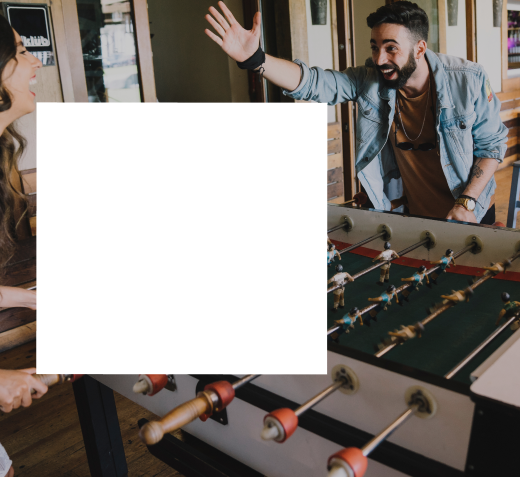
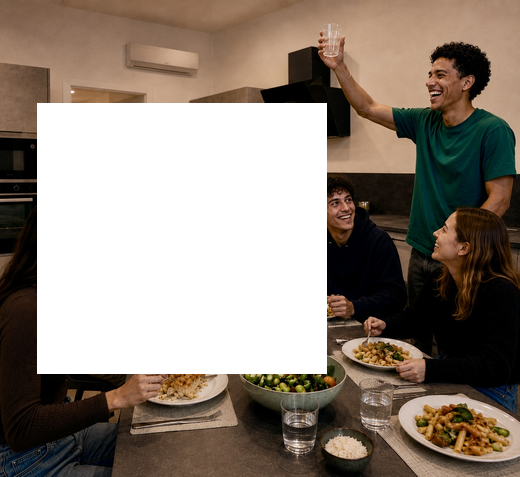
Several text and graphic changes

diff --git a/index.html b/index.html
@@ -1,6 +1,15 @@
 <!DOCTYPE html>
 <html lang="it">
 <head>
+    <!-- Google tag (gtag.js) -->
+    <script async src="https://www.googletagmanager.com/gtag/js?id=G-RDXZLBWNVS"></script>
+    <script>
+    window.dataLayer = window.dataLayer || [];
+    function gtag(){dataLayer.push(arguments);}
+    gtag('js', new Date());
+
+    gtag('config', 'G-RDXZLBWNVS');
+    </script>
     <meta charset="UTF-8">
     <meta name="viewport" content="width=device-width, initial-scale=1.0">
     <title>Villa Giusti 5 | Studentato e Co-Housing a Torino</title>
@@ -11,6 +20,7 @@
     <link href="https://fonts.googleapis.com/css2?family=Work+Sans:ital,wght@0,100..900;1,100..900&display=swap" rel="stylesheet">
     <link href="https://fonts.googleapis.com/css2?family=Cabin:ital,wght@0,400..700;1,400..700&family=Work+Sans:ital,wght@0,100..900;1,100..900&display=swap" rel="stylesheet">
     <link rel="stylesheet" href="style.css">
+    <link rel="icon" type="image/svg+xml" href="favicon.svg">
 </head>
 <body>
     <!-- Navbar con Burger Menu -->
@@ -91,7 +101,7 @@
                 </div>
                 <div class="container">
                     <h1>VILLA GIUSTI</h1>
-                    <div style="align-self:flex-end;">
+                    <div class="bottom-wrapper">
                         <div class="bottom-hero">
                             <div class="text">
                                 <p>23 camere pensate per studenti e giovani lavoratori, a due passi dal nuovo campus di Grugliasco. Ambienti curati, servizi inclusi, un'identità tutta torinese.</p>
@@ -122,7 +132,7 @@
                         </svg>
                     </span> ENJOY
                 </h2> -->
-                <h2 class="intro-line">NOI PENSIAMO AL COMFORT</h2>
+                <h2 class="intro-line">NOI PENSIAMO A TE</h2>
                 <h2 class="cta-line">TU
                     <span class="arrow-icon" aria-hidden="true">
                         <svg viewBox="0 0 60 24" xmlns="http://www.w3.org/2000/svg">
@@ -519,7 +529,7 @@
                                 </div>
                                 <div>Sala studio</div>
                             </div>
-                            <div class="text">Uno spazio pensato per lo studio condiviso, con tavoli e sedie per organizzare una sessione con i compagni di corso</div>
+                            <div class="text">Uno spazio pensato per lo studio condiviso, con tavoli e sedie per organizzare una sessione con i compagni di corso.</div>
                         </div>
 
                         <div class="service-item">
@@ -561,7 +571,7 @@
                             </svg>
                         </div>
                         <div class="info">
-                            <a href="mailto:info@villagiustitorino.com">info@villagiustitorino.com</a>
+                            <a href="mailto:info@villagiustitorino.it">info@villagiustitorino.it</a>
                         </div>
                     </div>
                     <div class="contact-item">
@@ -601,8 +611,9 @@
                         <p class="link-item"><a href="#camere">LE CAMERE</a></p>
                         <p class="link-item"><a href="#servizi">SERVIZI</a></p>
                         <p class="link-item"><a href="#contatti">CONTATTI</a></p>
-                        <p class="link-item contact"><a href="mailto:info@villagiustitorino.com">info@villagiustitorino.com</a></p>
+                        <p class="link-item contact"><a href="mailto:info@villagiustitorino.it">info@villagiustitorino.it</a></p>
                         <p class="link-item contact"><a href="tel:+39 391 1320678">+39 391 1320678</a></p>
+                        <p class="link-item contact"><a href="https://maps.app.goo.gl/ABFbUajkbvjCJkLXA" target="_blank">Via villa giusti 5, Torino</a></p>
                     </nav>
                     <div class="social">
                         <a href="https://www.instagram.com/villagiusti.torino?igsh=MWQ2YTlwYm5waTAzZw==" target="_blank" aria-label="Instagram" style="margin-right:32px;">
@@ -630,6 +641,38 @@
             </div>
             <div class="bottom">
                 <p>&copy;2026 Villa Giusti.<br />Tutti i diritti riservati.</p>
+                <!-- <p>
+                    <button command="show-modal" commandfor="privacy-policy" class="policy-link">Privacy policy</button>
+                    <button command="show-modal" commandfor="cookie-policy" class="policy-link">Cookie policy</button>
+                </p> -->
+
+                <!-- <dialog id="privacy-policy" class="policy-modal">
+                    <div class="modal-container">
+                        <p>
+                            PRIVACY - Lorem ipsum dolor sit amet, consectetur adipiscing elit, sed do eiusmod tempor incididunt ut labore et dolore magna aliqua. Ut enim ad minim veniam, quis nostrud exercitation ullamco laboris nisi ut aliquip ex ea commodo consequat. Duis aute irure dolor in reprehenderit in voluptate velit esse cillum dolore eu fugiat nulla pariatur. Excepteur sint occaecat cupidatat non proident, sunt in culpa qui officia deserunt mollit anim id est laborum.
+                        </p>
+                    </div>
+                    <button commandfor="privacy-policy" command="close" class="policy-close">
+                        <svg width="20" height="20" viewBox="0 0 30 30" fill="none" xmlns="http://www.w3.org/2000/svg">
+                            <line x1="6" y1="6" x2="24" y2="24" stroke="white" stroke-width="2"/>
+                            <line x1="24" y1="6" x2="6" y2="24" stroke="white" stroke-width="2"/>
+                        </svg>
+                    </button>
+                </dialog> -->
+
+                <!-- <dialog id="cookie-policy" class="policy-modal">
+                    <div class="modal-container">
+                        <p>
+                            COOKIE - Lorem ipsum dolor sit amet, consectetur adipiscing elit, sed do eiusmod tempor incididunt ut labore et dolore magna aliqua. Ut enim ad minim veniam, quis nostrud exercitation ullamco laboris nisi ut aliquip ex ea commodo consequat. Duis aute irure dolor in reprehenderit in voluptate velit esse cillum dolore eu fugiat nulla pariatur. Excepteur sint occaecat cupidatat non proident, sunt in culpa qui officia deserunt mollit anim id est laborum.
+                        </p>
+                    </div>
+                    <button commandfor="cookie-policy" command="close" class="policy-close">
+                        <svg width="20" height="20" viewBox="0 0 30 30" fill="none" xmlns="http://www.w3.org/2000/svg">
+                            <line x1="6" y1="6" x2="24" y2="24" stroke="white" stroke-width="2"/>
+                            <line x1="24" y1="6" x2="6" y2="24" stroke="white" stroke-width="2"/>
+                        </svg>
+                    </button>
+                </dialog> -->
             </div>
         </div>
     </footer>

diff --git a/style.css b/style.css
@@ -341,28 +341,31 @@ body {
         .container {
             position: absolute;
             top: 0;
-            min-height: 100vh;
             height: 100vh;
             max-width: 1440px;
-            display: flex;
-            flex-direction: column;
-            align-items: center;
-            justify-content: center;
+            display: grid;
+            grid-template-rows: 1fr;
 
+            /* top + height must always sum to 100% so the container's bottom edge
+               never falls past the viewport bottom */
             /* @media screen and (min-width: 768px) { top: 0; } */
-            @media screen and (min-width: 1200px) { top: 10%; }
-            @media screen and (min-width: 1440px) { top: 16%; }
+            @media screen and (min-width: 1200px) { top: 10%; height: 90%; }
+            @media screen and (min-width: 1440px) { top: 16%; height: 84%; }
 
             h1 {
+                grid-area: 1 / 1;
+                align-self: center;
+                justify-self: center;
                 color: #fff;
                 font-size: 230px;
                 font-weight: 400;
                 line-height: 100%;
-                padding-bottom: 14%;
                 font-family: "Cabin", sans-serif;
-
-                @media screen and (min-width: 1200px) { padding-bottom: 8%; }
-                @media screen and (min-width: 1440px) { padding-bottom: 14%; }
+            }
+            .bottom-wrapper {
+                grid-area: 1 / 1;
+                align-self: end;
+                justify-self: center;
             }
             .bottom-hero {
                 display: flex;
@@ -424,7 +427,7 @@ body {
             font-weight: 400;
         }
         @media screen and (min-width: 1220px) {
-            font-size: 120px;
+            font-size: 112px;
         }
     }
 
@@ -1165,6 +1168,71 @@ body {
             color: #fff;
             font-size: 14px;
             line-height: 16px;
+        }
+
+        .policy-link {
+            background: none;
+            border: none;
+            cursor: pointer;
+            color: #fff;
+            font-size: 14px;
+            line-height: 16px;
+            margin-right: 16px;
+
+            &:last-child {
+                margin-right: 0;
+            }
+        }
+        
+        .policy-modal {
+            position: fixed;
+            top: 50%;
+            left: 50%;
+            transform: translate(-50%, -50%);
+            width: 100%;
+            height: 100%;
+            background-color: #fff;
+            border: none;
+
+            @media screen and (min-width: 768px) {
+                width: 45%;
+                height: auto;
+            }
+
+            .modal-container {
+                display: flex;
+                flex-direction: column;
+                align-items: center;
+                justify-content: flex-start;
+                padding: 2%;
+                height: 100%;
+                text-align: left;
+            }
+
+            p {
+                padding: 64px 16px 16px 16px;
+                color: #000;
+            }
+
+            button[command="close"] {
+                position: absolute;
+                top: 16px;
+                right: 16px;
+                background-color: #000;
+                border: 1px solid #000;
+                border-radius: 50%;
+                width: 30px;
+                height: 30px;
+                display: flex;
+                align-items: center;
+                justify-content: center;
+                cursor: pointer;
+                color: #fff;
+            }
+
+            &::backdrop {
+                background: rgba(0, 0, 0, 0.5);
+            }
         }
     }
 }
